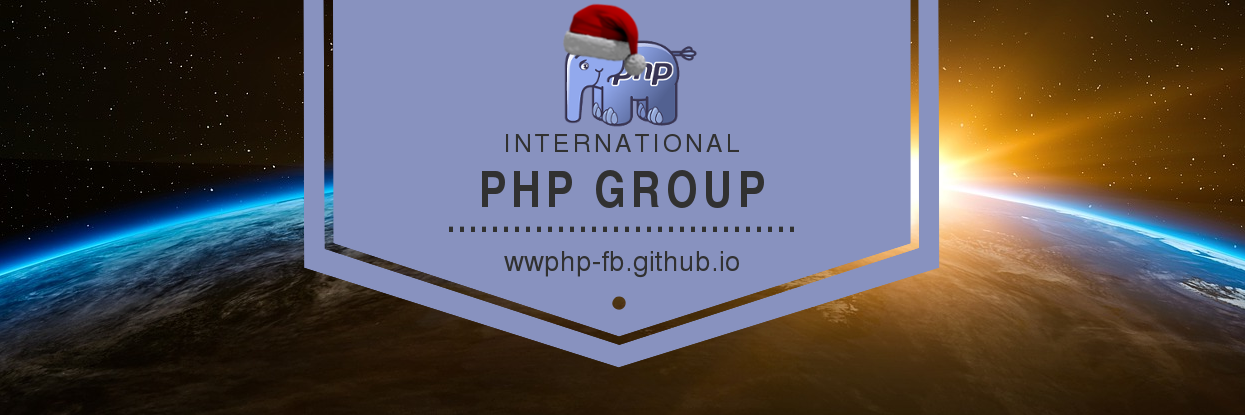
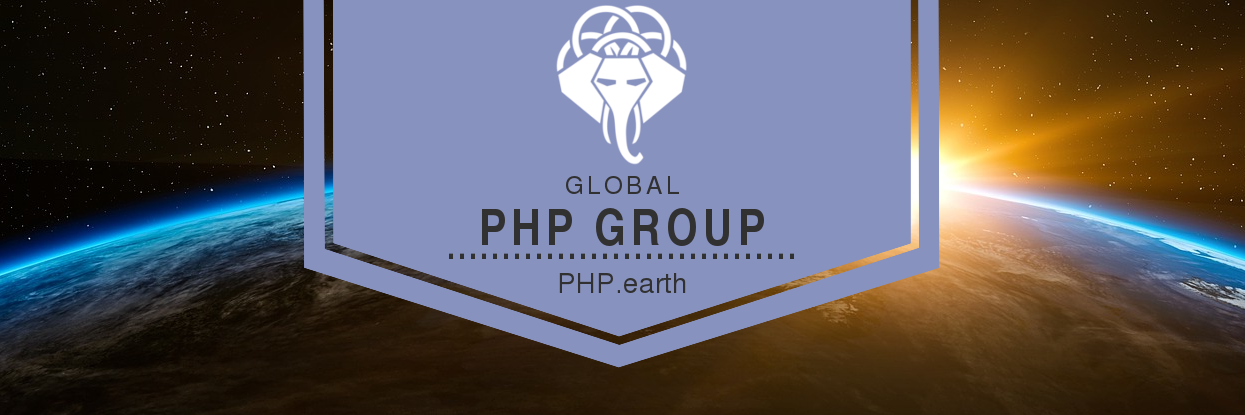
Add Global PHP Group cover

Changed region(s): [[0.3663, 0.0, 0.641, 0.7518]]

diff --git a/README.md b/README.md
@@ -1,16 +1,16 @@
-# International PHP Facebook group's cover photo
+# Cover Photo for the Global PHP Group on Facebook
 
 ## About
 
 This repository holds graphics and instructions for the cover photo of the
-International PHP Facebook group.
+[Global PHP Group on Facebook](https://www.facebook.com/groups/2204685680/).
 
-## Contributing cover photo
+## Contributing Cover Photo
 
 You can propose your vision of the cover photo of course. Before doing that
 please check if it corresponds with the following rules:
 
-* Size of the image must be 785x249 px
+* Size of the image must fit the requirement for different devices
 * Exported format must be PNG
 * Graphics should include a link to the group's rules and describe the main context
   of this group i.e. **PHP**
